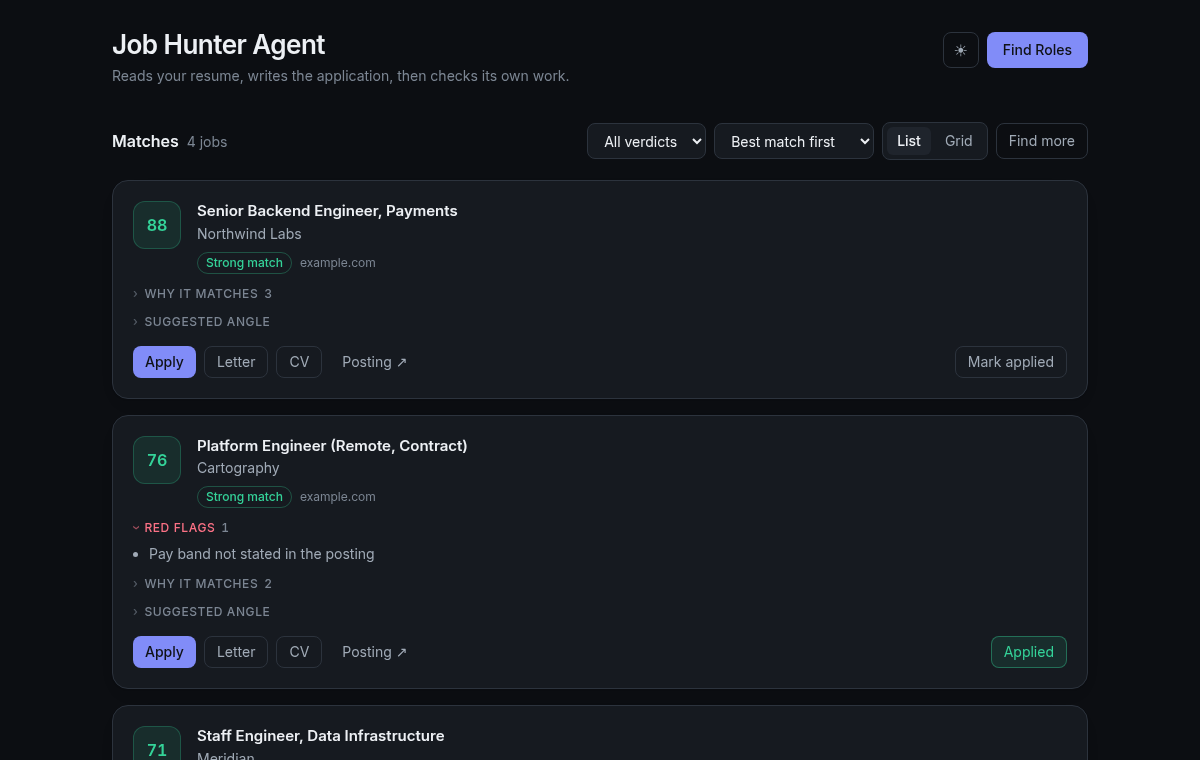
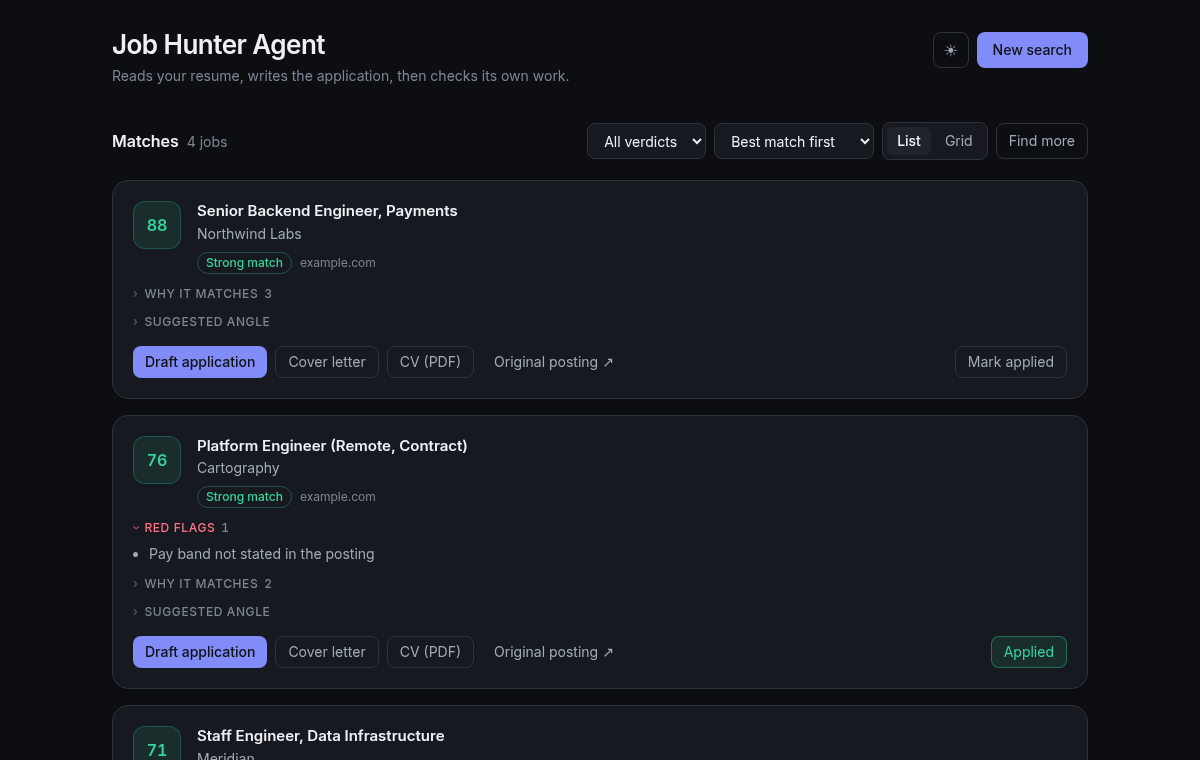
Fix four UI issues found by actually using the dashboard
- Grid cards ended at different heights: the container carried
  items-start, so rows never stretched. Removed, and the card is h-full
  so the action row still pins to the bottom.
- Theme switching snapped instead of fading. CSS custom properties
  don't animate — the transition has to sit on the elements consuming
  them, so a zero-specificity :where() rule animates colour only.
- There was no way back from results to setup except the header button,
  which re-ran analyze_resume() — a Claude subprocess call — every
  time. resumeInfo is cached now, the header reads "New search", and
  setup has "Back to results" plus an explicit "Re-read resume" for
  after editing resume.md.
- Buttons labelled "Letter", "CV", "Posting" and "Apply" didn't say
  what they did. Now "Cover letter", "CV (PDF)", "Original posting",
  "Draft application", each with a title attribute.

Changed region(s): [[0.1233, 0.8171, 0.4933, 0.8776], [0.1233, 0.4539, 0.4933, 0.5145], [0.7708, 0.0303, 0.8942, 0.0908]]

diff --git a/ui/index.html b/ui/index.html
@@ -64,6 +64,15 @@
     }
 
     body { font-feature-settings: 'cv02','cv03','cv04','cv11'; }
+
+    /* Custom properties don't animate, so the transition has to sit on whatever
+       consumes them. :where() keeps specificity at 0 so nothing here fights a
+       utility class, and only colour properties are animated — layout stays snappy. */
+    :where(body, header, section, article, main, div, span, p, h1, h2, h3, li,
+           button, a, input, select, summary, canvas, ul, ol, pre) {
+      transition: background-color .22s ease, border-color .22s ease,
+                  color .22s ease, fill .22s ease;
+    }
     /* Scores are compared down a column — tabular figures keep them aligned. */
     .nums { font-variant-numeric: tabular-nums; }
 
@@ -102,19 +111,32 @@
         <button id="theme-btn" onclick="toggleTheme()" aria-label="Switch between light and dark"
           class="w-9 h-9 grid place-items-center rounded-lg border border-line text-muted
                  hover:text-ink hover:bg-raised transition"></button>
-        <button id="run-btn" onclick="analyzeResume()"
+        <button id="run-btn" onclick="openSetup()"
           class="bg-accent text-accent-ink hover:opacity-90 disabled:opacity-40 disabled:cursor-not-allowed
                  font-medium px-4 h-9 rounded-lg transition text-sm">
-          Find Roles
+          New search
         </button>
       </div>
     </header>
 
     <!-- Search Setup -->
     <section id="setup-section" class="hidden mb-6 bg-surface border border-line rounded-2xl shadow-card overflow-hidden">
-      <div class="px-5 py-4 border-b border-line">
-        <h2 class="font-semibold">Search setup</h2>
-        <p class="text-sm text-faint mt-0.5">Derived from your resume — trim it to what you actually want this run.</p>
+      <div class="px-5 py-4 border-b border-line flex items-start justify-between gap-4">
+        <div>
+          <h2 class="font-semibold">Search setup</h2>
+          <p class="text-sm text-faint mt-0.5">Derived from your resume — trim it to what you actually want this run.</p>
+        </div>
+        <div class="flex items-center gap-2 shrink-0">
+          <button onclick="analyzeResume(true)" id="reread-btn"
+            title="Read resume.md again — do this after editing it"
+            class="text-sm border border-line text-muted hover:text-ink hover:bg-raised px-3 h-8 rounded-lg transition">
+            Re-read resume
+          </button>
+          <button onclick="cancelSetup()"
+            class="text-sm text-muted hover:text-ink px-3 h-8 rounded-lg transition">
+            ← Back to results
+          </button>
+        </div>
       </div>
 
       <div class="p-5 space-y-5">
@@ -403,10 +425,19 @@
       return [...document.querySelectorAll(`#${containerId} input:checked`)].map(el => el.value);
     }
 
-    async function analyzeResume() {
-      const btn = document.getElementById('run-btn');
+    /* Reading the resume is a Claude subprocess call — several seconds and a
+       real cost. Cache it so returning to setup is instant; `force` is the
+       explicit re-read after editing resume.md. */
+    async function openSetup() {
+      if (resumeInfo) { renderSetup(); return; }
+      await analyzeResume();
+    }
+
+    async function analyzeResume(force = false) {
+      const btn = document.getElementById(force ? 'reread-btn' : 'run-btn');
+      const label = btn.textContent;
       btn.disabled = true;
-      btn.textContent = 'Finding roles…';
+      btn.textContent = 'Reading resume…';
       document.getElementById('error-banner').classList.add('hidden');
       try {
         const res = await fetch('/api/resume-roles');
@@ -418,7 +449,7 @@
         showError(e.message);
       } finally {
         btn.disabled = false;
-        btn.textContent = 'Find Roles';
+        btn.textContent = label;
       }
     }
 
@@ -704,7 +735,7 @@
 
       const container = document.getElementById('jobs-list');
       container.className = viewMode === 'grid'
-        ? 'grid grid-cols-1 md:grid-cols-2 gap-4 items-start'
+        ? 'grid grid-cols-1 md:grid-cols-2 gap-4'
         : 'flex flex-col gap-4';
 
       if (!jobs.length) {
@@ -721,8 +752,8 @@
         const status = statusChip(job.status);
         const q = `company=${encodeURIComponent(job.company ?? '')}&title=${encodeURIComponent(job.title ?? '')}`;
         return `
-      <article class="bg-surface border border-line rounded-2xl shadow-card p-5 flex flex-col
-                      hover:border-${tone}/30 transition-colors">
+      <article class="bg-surface border border-line rounded-2xl shadow-card p-5 flex flex-col h-full
+                      hover:border-${tone}/30">
         <div class="flex items-start gap-4">
           <div class="shrink-0 w-12 h-12 rounded-xl grid place-items-center
                       bg-${tone}/10 text-${tone} border border-${tone}/25">
@@ -754,20 +785,24 @@
 
         <div class="flex flex-wrap items-center gap-2 pt-4 mt-auto">
           <button data-act="apply" data-url="${esc(job.url ?? '')}"
-            class="text-sm bg-accent text-accent-ink hover:opacity-90 font-medium px-3 h-8 rounded-lg transition">
-            Apply
+            title="Draft a cover letter, then have a second Claude call review it"
+            class="text-sm bg-accent text-accent-ink hover:opacity-90 font-medium px-3 h-8 rounded-lg">
+            Draft application
           </button>
           <button data-act="letter" data-q="${esc(q)}"
-            class="text-sm border border-line text-muted hover:text-ink hover:bg-raised px-3 h-8 rounded-lg transition">
-            Letter
+            title="Read the cover letter written for this job"
+            class="text-sm border border-line text-muted hover:text-ink hover:bg-raised px-3 h-8 rounded-lg">
+            Cover letter
           </button>
           <a href="/api/cv?${q}" target="_blank" rel="noopener noreferrer"
-             class="text-sm border border-line text-muted hover:text-ink hover:bg-raised px-3 h-8 rounded-lg transition inline-flex items-center">
-            CV
+             title="Open the tailored CV as a PDF"
+             class="text-sm border border-line text-muted hover:text-ink hover:bg-raised px-3 h-8 rounded-lg inline-flex items-center">
+            CV&nbsp;(PDF)
           </a>
           <a href="${esc(job.url ?? '#')}" target="_blank" rel="noopener noreferrer"
-             class="text-sm text-muted hover:text-ink px-3 h-8 rounded-lg transition inline-flex items-center">
-            Posting ↗
+             title="Open the original job posting on ${esc(sourceLabel(job.url))}"
+             class="text-sm text-muted hover:text-ink px-3 h-8 rounded-lg inline-flex items-center">
+            Original posting ↗
           </a>
           <button data-act="status" data-url="${esc(job.url ?? '')}" data-status="${esc(job.status ?? 'none')}"
             class="ml-auto text-sm border px-3 h-8 rounded-lg transition ${status.cls}">

diff --git a/.project-knowledge/sessions.md b/.project-knowledge/sessions.md
@@ -9,4 +9,4 @@
 | 2026-07-20 → 2026-07-21 | First real end-to-end test run with the candidate's actual resume — fixed a locally-broken `claude` CLI install (native binary missing, recurred ~4x this session due to an unrelated auto-updater flakiness on this machine) and set up `.venv`/`.env` (`FIRECRAWL_API_KEY`, `EXA_API_KEY`). Added Exa as a fallback for pages Firecrawl can't scrape (LinkedIn/Reddit). Reworked the dashboard substantially: resume-driven role selection ("Find Roles" → checkboxes), free-text-via-chips run preferences (employment type/pay/location) folded into search + scoring, job source badges, list/grid view toggle with bottom-pinned action buttons, a step-based UI flow (setup → running → results, with Cancel), and a "dodge the red flags" canvas mini-game shown while the pipeline runs. Fixed `run_claude()` to surface `claude` CLI exec failures as a readable error instead of a raw JSON-parse crash in the UI. 40 tests passing (up from 29). |
 | 2026-08-16 | No repo code changed — design + toolchain exploration only. Audited MadsLorentzen/ai-job-search (MIT-licensed, 31.8k★ Claude Code job-application framework) and identified what it has that this project lacks: a drafter-reviewer apply loop, CV generation, an application tracker, and PDF/ATS verification. Sketched an adapted apply-flow design (3 new prompt files, `POST /api/apply` SSE endpoint, `output/applications.csv` tracker + archived postings, grounding audit, requirement coverage, language gate) and committed to building CV generation + PDF-compile + ATS verification as our own implementation. Test-drove LaTeX vs Typst for CVs: installed Typst (→ `~/.local/bin`) and portable TinyTeX (→ `~/.TinyTeX`) without sudo, copied Font Awesome 5 fonts to `~/.local/share/fonts`, and styled a Typst CV with section rules + FA icons — using PNG pixel analysis (numpy/PIL) to catch Typst's phantom `par.spacing` gaps. Findings logged in history.md; toolchain decision pending user's render comparison. |
 | 2026-08-16 | Still no repo code changed — continued the Typst CV demo (`/tmp/opencode/cv-demo/cv.typ`). Fixed the two remaining layout complaints: oversized gaps around each section rule (cause: bare `line()` is inline, so the rule formed its own paragraph and inherited its line-box height + leading — fixed with `block(spacing: 0pt, line(...))`) and cramped bullet spacing (cause: `list.spacing` is ignored by tight lists — fixed with `tight: false`). Render now fits one page with even spacing. Gotchas appended to history.md. **User approved the render — Typst is the CV toolchain, LaTeX dropped.** Template moved out of `/tmp` into the repo at `templates/cv.typ`. Then **built the CV stage for real**: `prompts/cv.md`, `generate_cvs()`/`_compile_cv()`/`_verify_cv()` in `agent.py` wired as pipeline step 5, `GET /api/cv` serving the PDF, a CV link on each job card, and a 5th step in the UI progress bar. Verified end-to-end against a synthetic non-developer resume (virtual assistant) in a scratch dir — one-page PDF, clean ATS text layer. Two fixes came out of that run: the template's Skills `grid` extracted column-by-column (all labels, then all values) so it became one line per category, and Typst's `~` non-breaking space silently ate "~120 invoices" so the prompt now lists it among the characters to escape. 48 tests passing (up from 40). Then took the rest of the roadmap to done in the same session: language gate in `prompts/analyze.md`, keyword-coverage reporting + a one-page retry for CVs, the **drafter-reviewer apply stage** (`prompts/apply_draft.md`/`apply_review.md`, `apply_to_job()`, `GET /api/apply` SSE, side-by-side modal), and the **application tracker + posting archive** (`output/applications.csv` + `output/applications/<slug>/`). Driving the apply stage through a real browser exposed that `analyze.md` never carries `description` into `jobs.json` — CVs and reviews had been running blind to the posting text — fixed with `_scraped_description()`. Verified end-to-end via the running server: reviewer caught a fabricated "four years" and an Airtable overclaim, coverage went from 1 requirement to 7 once the posting text was restored. 72 tests passing. Then ran it for real against the user's actual resume (`resume.md`, gitignored): role/skill extraction and query building are genuine Claude output; a real posting (n8n Community, $1,500/mo remote n8n AI automation developer) was fetched by hand via WebFetch to stand in for step 2, since no `FIRECRAWL_API_KEY` exists on this machine. Scoring gave it 88/apply with accurate reasons; the CV came out one page with a clean text layer; the reviewer caught "I'm available remote, full-time" as unsupported (the resume's current role is explicitly Part-Time) and cut it. The real run also exposed that the CV keyword check was reporting 59 junk terms — narrowed to posting terms the resume supports but the CV omitted, which drops it to one. 73 tests passing. Finally ran the **whole pipeline for real** once the Firecrawl/Exa keys were available: 9 queries → 73 pages discovered → 20 scraped → scored → letters + CVs. First real run produced **0 jobs above threshold**, which turned out to be a genuine defect rather than a bad market: `EXTRACT_PROMPT` asked for "a short description" and Firecrawl returned a median of 119 characters per posting, so Claude was scoring against blurbs. Rewrote it to demand the posting's own text; re-ran: 168 postings, 20 kept, **10 above threshold**, 10 one-page CVs with clean text layers, 10 cover letters. Also caught (before committing) that real API keys had been put into the tracked `.env.example` — never committed, moved to `.env` by the user. 73 tests passing. Comparing the two real runs then surfaced a bigger problem than the extract prompt: the n8n Community hiring post that scored 88 in run 1 was **absent from run 2 entirely** — discovery finds 46–168 pages, only 20 get scraped, and which 20 is luck of the draw; separately one careers page contributed 30 of 168 postings and half the apply verdicts. Fixed both on the user's own suggestion of a "next page" model: every discovered page is now persisted to `output/page_queue.json`, a **Find more jobs** button scrapes the next batch (never repeating a page, no new search), and `MAX_PAGES_PER_DOMAIN = 3` stops any one site dominating a batch. Cover letters and CVs already written are skipped so a second pass doesn't re-pay for them. Verified against real discovery with scraping stubbed out (zero scrape spend): batch 1 spread across 12 domains instead of 3, batch 2 overlapped batch 1 by zero pages. 84 tests passing. |
-| 2026-08-26 | UI/UX audit and redesign. Replaced the generic Tailwind grey/blue palette with a token-based design system (CSS custom properties, light + dark, a persisted toggle), Inter + Newsreader typography, and a rebuilt job card that leads with the score and puts Apply as the one primary action. Audit turned up a real bug: job data interpolated into `onclick` attributes meant an apostrophe in a company name ("Lowe's") broke every button on that card — now delegated via `data-*`. Also fixed the score badge using 80/60 thresholds against the pipeline's 70, the Apply verdict colliding with the Apply button, all disclosures rendering open, and a complete absence of focus styles. Screenshots regenerated for both themes. 84 tests still passing. |
+| 2026-08-26 | UI/UX audit and redesign. Replaced the generic Tailwind grey/blue palette with a token-based design system (CSS custom properties, light + dark, a persisted toggle), Inter + Newsreader typography, and a rebuilt job card that leads with the score and puts Apply as the one primary action. Audit turned up a real bug: job data interpolated into `onclick` attributes meant an apostrophe in a company name ("Lowe's") broke every button on that card — now delegated via `data-*`. Also fixed the score badge using 80/60 thresholds against the pipeline's 70, the Apply verdict colliding with the Apply button, all disclosures rendering open, and a complete absence of focus styles. Screenshots regenerated for both themes. 84 tests still passing. | Follow-up pass on four issues found by using it: uneven grid card heights (`items-start`), no fade on theme switch (custom properties can't transition — the rule has to target the consuming elements), no way back to setup without paying for a fresh resume analysis (now cached, with explicit back and re-read controls), and action buttons whose labels didn't say what they did. |

diff --git a/.project-knowledge/history.md b/.project-knowledge/history.md
@@ -53,3 +53,4 @@ _None recorded yet._
 - Verdict "apply" and the Apply button were both labelled "Apply", one a classification and one an action. Verdicts read as `Strong match` / `Worth a look` / `Weak fit` now; the button keeps the verb. *(2026-08-26)*
 - Every `<details>` on a job card rendered `open`, so a 20-job list was a wall of text. Red flags stay open (they are the reason not to apply); match reasons and the suggested angle start collapsed with a rotating chevron. *(2026-08-26)*
 - Keyboard focus was invisible anywhere in the UI — no `focus:` styles existed at all. One `:focus-visible` ring is defined for every interactive element, modals close on Escape, and the modals carry `role="dialog"`/`aria-modal`. *(2026-08-26)*
+- Four UI issues raised after the redesign, all real: (1) grid cards sized to their own content because the container carried `items-start`, so a row of cards ended at different heights — removed, and the card is `h-full` so the action row still sits at the bottom; (2) theme switching snapped rather than faded, because **CSS custom properties don't animate** — the transition has to sit on the elements consuming them, so a zero-specificity `:where(...)` rule animates colour properties only; (3) there was no way back from results to setup except the header button, which re-ran `analyze_resume()` — a Claude subprocess call — every time, so `resumeInfo` is now cached, the header reads "New search", and setup carries "← Back to results" plus an explicit "Re-read resume" for after editing `resume.md`; (4) buttons labelled "Letter", "CV", "Posting" and "Apply" said nothing about what they did — now "Cover letter", "CV (PDF)", "Original posting ↗", "Draft application", each with a title attribute. *(fixed: 2026-08-26)*
